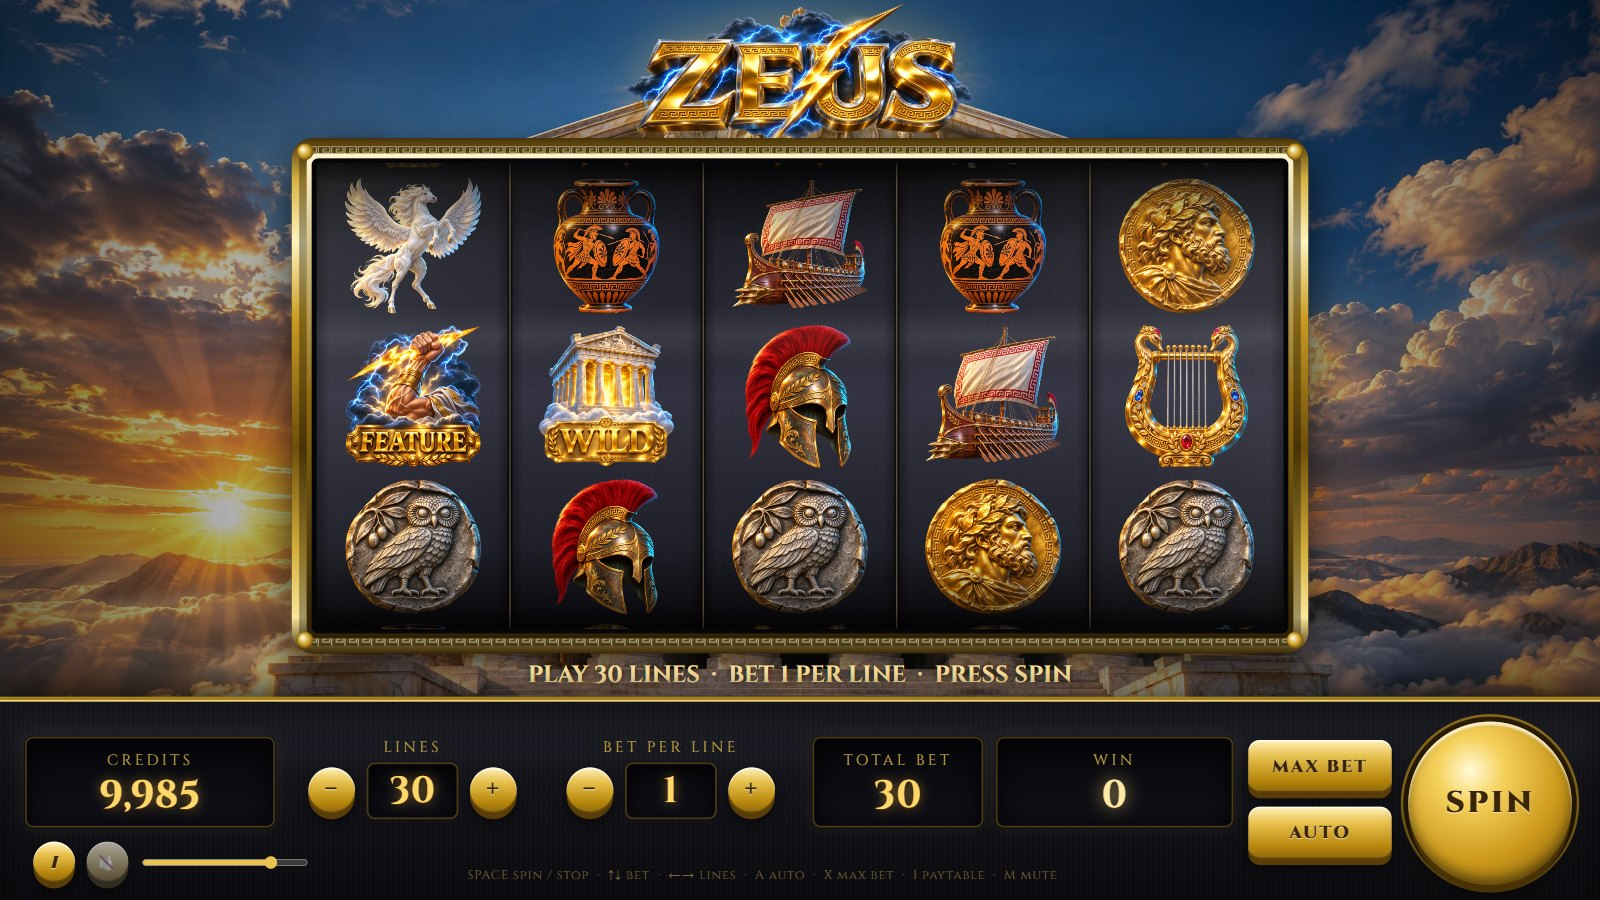
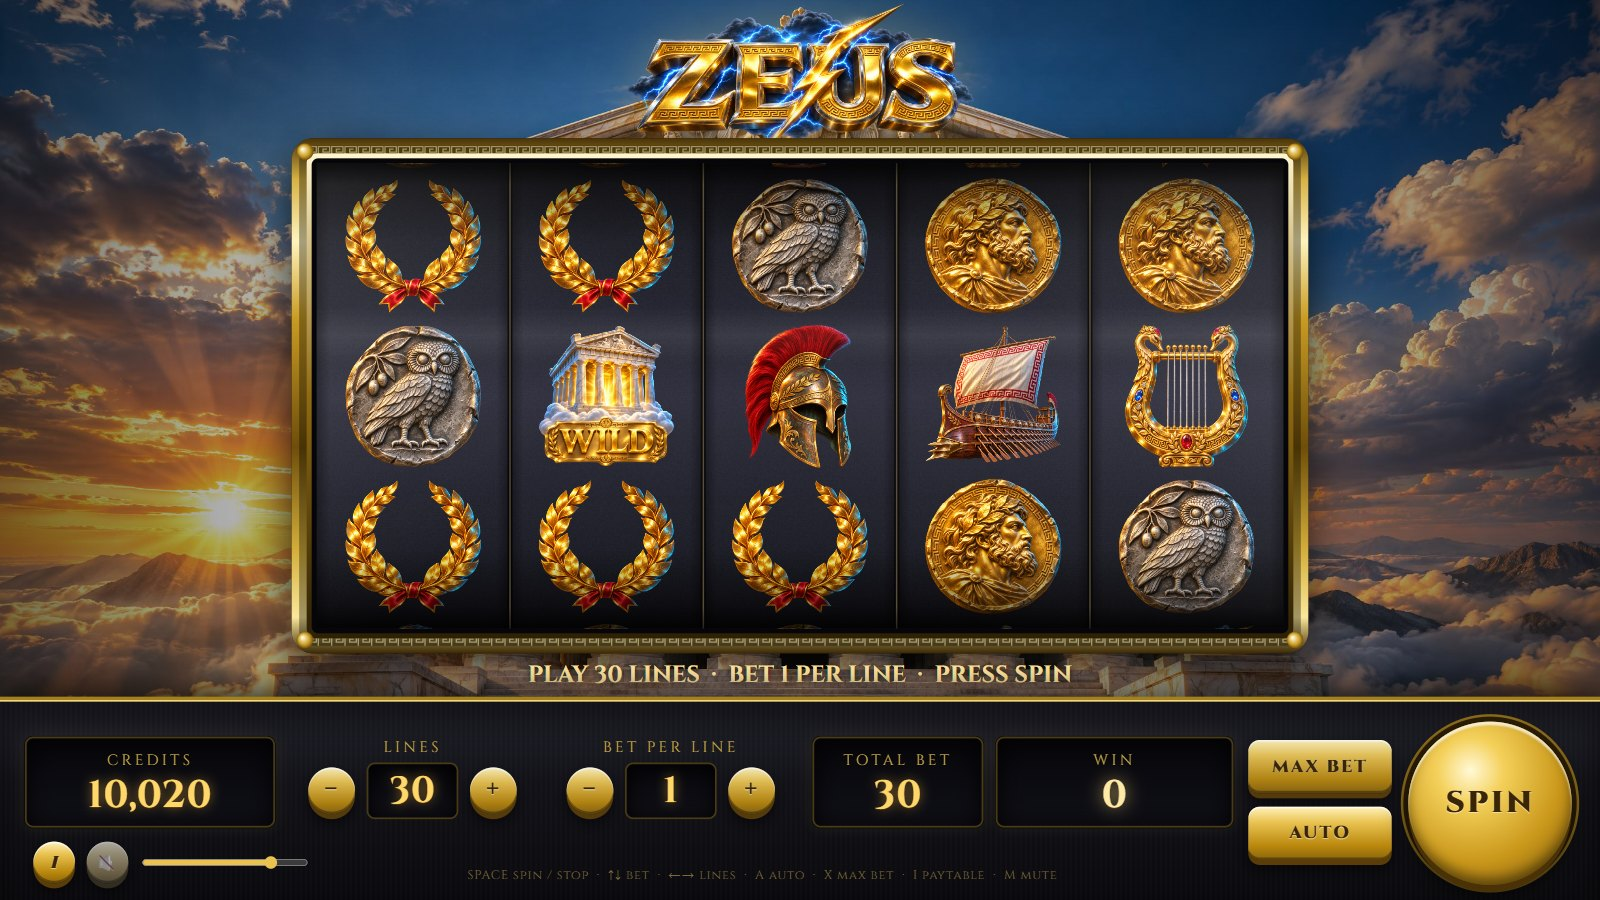
Arcade maths profile: the feature about 1 in 41 spins
The default arcade profile adds a FEATURE symbol on reel 3 and awards 5/10/40 free spins for a 95.68% return, against 1 in 101 with 10/25/100 at 95.96% before; ?classic=1 in the browser or ZEUS_PROFILE=classic for the tools restores the original. tools/tune-arcade.js documents the scan; README, docs page and screenshots updated.

Changed region(s): [[0.2188, 0.1867, 0.6875, 0.6844], [0.0312, 0.84, 0.1562, 0.9022]]

diff --git a/docs/index.html b/docs/index.html
@@ -6,7 +6,7 @@
 <meta name="viewport" content="width=device-width, initial-scale=1">
 <meta name="description" content="A photorealistic, physics-driven, fully sounded recreation of the classic Zeus slot machine in plain HTML5 Canvas and Web Audio.">
 <meta property="og:title" content="ZEUS — web slot machine recreation">
-<meta property="og:description" content="5 reels, 30 lines, 10/25/100 free spins, real reel physics and synthesized sound. Play in the browser.">
+<meta property="og:description" content="5 reels, 30 lines, 5/10/40 free spins, real reel physics and synthesized sound. Play in the browser.">
 <meta property="og:image" content="screenshots/hero.jpg">
 <link rel="preconnect" href="https://fonts.googleapis.com">
 <link href="https://fonts.googleapis.com/css2?family=Cinzel:wght@400;700;900&family=Inter:wght@400;600&display=swap" rel="stylesheet">
@@ -42,7 +42,7 @@
 <body>
 <header>
   <img class="logo" src="../assets/logo.png" alt="ZEUS">
-  <p class="tag">King of the gods &middot; 5 reels &middot; 30 lines &middot; 100 free spins</p>
+  <p class="tag">King of the gods &middot; 5 reels &middot; 30 lines &middot; free spins about every 41 spins</p>
   <a class="cta" href="../index.html">PLAY IN YOUR BROWSER</a>
   <img class="hero" src="screenshots/hero.jpg" alt="The Zeus reels with stacked Zeus, Wild temple and the golden bezel">
 </header>
@@ -50,14 +50,14 @@
   <h2>What it is</h2>
   <p>An unofficial, play-money recreation of the classic WMS <em>Zeus</em> slot machine, written in plain HTML5 Canvas,
     Web Audio and vanilla JavaScript. No frameworks, no build step, no server-side code &mdash; it runs from any static
-    web host or straight from disk. The reel strips reproduce the original paytable and return 95.96% in theory
-    (69.1% base game + 26.9% free spins), with the feature landing about once every 101 spins.</p>
+    web host or straight from disk. The reel strips reproduce the original paytable and return 95.68% in theory
+    (65.5% base game + 30.2% free spins), with the feature landing about once every 41 spins; add ?classic=1 to the address for the original 10/25/100 balance at 95.96%.</p>
 
   <h2>Features</h2>
   <div class="grid">
     <div class="card"><h3>Real reel physics</h3><p>Pull-back wind-up, acceleration, blurred full-speed spin, constant deceleration, an overshoot and a damped-spring bounce onto the stop. Slam the reels with the spin button.</p></div>
     <div class="card"><h3>Anticipation</h3><p>When two FEATURE symbols have landed the remaining reels spin on with a rising drone, heartbeat thumps and a crackling blue glow.</p></div>
-    <div class="card"><h3>Free spins</h3><p>3 / 4 / 5 FEATURE symbols award 10 / 25 / 100 free spins on a storm-lit second reel set with stacked Zeus and stacked Wilds. Retriggers add more.</p></div>
+    <div class="card"><h3>Free spins</h3><p>3 / 4 / 5 FEATURE symbols award 5 / 10 / 40 free spins (10 / 25 / 100 in the classic profile) on a storm-lit second reel set with stacked Zeus and stacked Wilds. Retriggers add more.</p></div>
     <div class="card"><h3>Photoreal presentation</h3><p>Cylindrical drum projection, speed-dependent motion blur, drum lighting and glass reflections, animated winning symbols, payline sweeps, procedural lightning and coin showers.</p></div>
     <div class="card"><h3>Fully synthesized sound</h3><p>Reel whir and ticks, mechanical stops, thunder, harp plucks, bells, brass fanfares, roll-up counters and two looping music beds &mdash; all generated live in Web Audio.</p></div>
     <div class="card"><h3>Verified mathematics</h3><p>An exact RTP calculator and a Monte-Carlo checker ship with the game, so the reel strips can be tuned and audited.</p></div>
@@ -69,7 +69,7 @@
     <figure><img src="screenshots/spin.jpg" alt="Reels spinning"><figcaption>Reels at full speed with motion blur.</figcaption></figure>
     <figure><img src="screenshots/win.jpg" alt="Line win"><figcaption>A line win: non-winning symbols dim, the payline glows and the win rolls up.</figcaption></figure>
     <figure><img src="screenshots/bigwin.jpg" alt="Epic win"><figcaption>A full screen of Zeus pays 500&times; the bet &mdash; EPIC WIN with lightning and coins.</figcaption></figure>
-    <figure><img src="screenshots/feature.jpg" alt="Feature triggered"><figcaption>Three FEATURE symbols trigger 10 free spins.</figcaption></figure>
+    <figure><img src="screenshots/feature.jpg" alt="Feature triggered"><figcaption>Three FEATURE symbols trigger 5 free spins.</figcaption></figure>
     <figure><img src="screenshots/freespins.jpg" alt="Free spins"><figcaption>Free spins under a thunderstorm with the feature meters.</figcaption></figure>
     <figure><img src="screenshots/summary.jpg" alt="Free spins complete"><figcaption>Free spins summary.</figcaption></figure>
     <figure><img src="screenshots/paytable.jpg" alt="Paytable"><figcaption>Pays and rules.</figcaption></figure>

diff --git a/js/config.js b/js/config.js
@@ -4,11 +4,22 @@
    Pays are in multiples of the LINE bet, matching the WMS Zeus paytable:
      Zeus 500/200/50/4, Pegasus 400/150/40, Boat 350/100/30, Helmet 350/100/30,
      Harp 250/100/20, Vase 250/100/20, Gold 200/75/15, Silver 200/75/15,
-     Wreath 150/50/5.  Feature: 3 = 10, 4 = 25, 5 = 100 free spins.
+     Wreath 150/50/5.  Feature: 3 / 4 / 5 scatters award free spins (see PROFILES).
    ========================================================================== */
 (function (root) {
   'use strict';
   const ZEUS = root.ZEUS || (root.ZEUS = {});
+
+  /* Two maths profiles share every pay and strip except the FEATURE symbol:
+       classic  the original balance: feature about 1 in 101 spins, 10 / 25 / 100 free spins, 95.96% return
+       arcade   (default) feature about 1 in 41 spins, 5 / 10 / 40 free spins, 95.68% return
+     Pick classic with ?classic=1 in the browser, or ZEUS_PROFILE=classic for the node tools. */
+  const PROFILES = {
+    classic: { featureCounts: [2, 1, 2, 1, 2], freeSpins: { 3: 10, 4: 25, 5: 100 }, rtp: '95.96', triggerEvery: 101 },
+    arcade: { featureCounts: [2, 2, 3, 2, 2], freeSpins: { 3: 5, 4: 10, 5: 40 }, rtp: '95.68', triggerEvery: 41 }
+  };
+  const wantClassic = (root.location && /[?&]classic=1(&|$)/.test(root.location.search)) || (typeof process !== 'undefined' && process.env && process.env.ZEUS_PROFILE === 'classic');
+  const PROFILE = wantClassic ? 'classic' : 'arcade', PROF = PROFILES[PROFILE];
 
   const SYMBOLS = [
     { id: 'ZEUS',    name: 'Zeus',          pays: { 5: 500, 4: 200, 3: 50, 2: 4 }, file: 'zeus' },
@@ -21,7 +32,7 @@
     { id: 'SILVER',  name: 'Silver Coin',   pays: { 5: 200, 4: 75,  3: 15 },       file: 'silver' },
     { id: 'WREATH',  name: 'Laurel Wreath', pays: { 5: 150, 4: 50,  3: 5 },        file: 'wreath' },
     { id: 'WILD',    name: 'Wild',          wild: true,                            file: 'wild' },
-    { id: 'FEATURE', name: 'Feature',       scatter: true, freeSpins: { 3: 10, 4: 25, 5: 100 }, file: 'feature' }
+    { id: 'FEATURE', name: 'Feature',       scatter: true, freeSpins: PROF.freeSpins,          file: 'feature' }
   ];
   const SYMBOL_BY_ID = {};
   SYMBOLS.forEach(s => { SYMBOL_BY_ID[s.id] = s; });
@@ -104,15 +115,10 @@
   }
 
   /* ---------- reel strip definitions (symbol counts per reel) ---------- */
-  /* Tuned with tools/tune2.js + tools/rtp-sim.js: exact RTP 95.96%
-     (base game 69.1% + free spins 26.9%), feature triggers about 1 in 101 spins. */
-  const BASE_COUNTS = [
-    { ZEUS: 3, PEGASUS: 3, BOAT: 3, HELMET: 3, HARP: 5, VASE: 5, GOLD: 6, SILVER: 6, WREATH: 8, WILD: 1, FEATURE: 2 },
-    { ZEUS: 3, PEGASUS: 3, BOAT: 3, HELMET: 3, HARP: 5, VASE: 5, GOLD: 6, SILVER: 6, WREATH: 8, WILD: 1, FEATURE: 1 },
-    { ZEUS: 3, PEGASUS: 3, BOAT: 3, HELMET: 3, HARP: 5, VASE: 5, GOLD: 6, SILVER: 6, WREATH: 8, WILD: 1, FEATURE: 2 },
-    { ZEUS: 3, PEGASUS: 3, BOAT: 3, HELMET: 3, HARP: 5, VASE: 5, GOLD: 6, SILVER: 6, WREATH: 8, WILD: 1, FEATURE: 1 },
-    { ZEUS: 3, PEGASUS: 3, BOAT: 3, HELMET: 3, HARP: 5, VASE: 5, GOLD: 6, SILVER: 6, WREATH: 8, WILD: 1, FEATURE: 2 }
-  ];
+  /* classic: tuned with tools/tune2.js + tools/rtp-sim.js to exactly 95.96% (base game 69.1% +
+     free spins 26.9%), feature about 1 in 101 spins.  arcade: tools/tune-arcade.js, 95.68%,
+     feature about 1 in 41 spins.  Only the FEATURE count per reel differs between the profiles. */
+  const BASE_COUNTS = PROF.featureCounts.map(f => ({ ZEUS: 3, PEGASUS: 3, BOAT: 3, HELMET: 3, HARP: 5, VASE: 5, GOLD: 6, SILVER: 6, WREATH: 8, WILD: 1, FEATURE: f }));
   const BASE_STACKS = { ZEUS: 3, WILD: 1 };
 
   const FREE_COUNTS = [
@@ -189,14 +195,14 @@
     rules: [
       'All wins pay left to right on adjacent reels beginning with the leftmost reel, except FEATURE.',
       'WILD is wild for all symbols except FEATURE.',
-      'FEATURE symbols pay in any position. 3 = 10 FREE SPINS, 4 = 25 FREE SPINS, 5 = 100 FREE SPINS.',
+      'FEATURE symbols pay in any position. 3 = ' + PROF.freeSpins[3] + ' FREE SPINS, 4 = ' + PROF.freeSpins[4] + ' FREE SPINS, 5 = ' + PROF.freeSpins[5] + ' FREE SPINS.',
       'Free spins are played at the lines and bet of the triggering game.',
       '3 or more FEATURE symbols during free spins award additional free spins.',
       'Only the highest win is paid per line. Line wins are multiplied by the line bet.',
       'Coinciding wins on different lines are added. Malfunction voids all pays and plays.'
     ]
   };
-  ZEUS.RTP = '95.96';
+  ZEUS.RTP = PROF.rtp; ZEUS.PROFILE = PROFILE; ZEUS.PROFILES = PROFILES;
   ZEUS.buildStrips = buildStrips;
   ZEUS.buildStrip = buildStrip;
   ZEUS.evalLine = evalLine;

diff --git a/tools/tune-arcade.js b/tools/tune-arcade.js
@@ -1,0 +1,26 @@
+/* Scan "arcade" settings: more frequent FEATURE triggers with smaller free-spin awards,
+   ranked by distance to a target RTP.  usage: node tools/tune-arcade.js [targetRtp=0.965] */
+'use strict';
+const ZEUS = require('../js/config.js');
+const L = require('./rtp-lib.js');
+const TARGET = parseFloat(process.argv[2] || '0.965');
+const FS = ZEUS.CONFIG.symbolById.FEATURE.freeSpins;
+function mk(spec) { return [0, 1, 2, 3, 4].map(i => { const o = {}; Object.keys(spec).forEach(k => { const v = spec[k]; o[k] = Array.isArray(v) ? v[i] : v; }); return o; }); }
+const BASE = { ZEUS: 3, PEGASUS: 3, BOAT: 3, HELMET: 3, HARP: 5, VASE: 5, GOLD: 6, SILVER: 6, WREATH: 8, WILD: 1 };
+const FREE = { ZEUS: 6, PEGASUS: 4, BOAT: 4, HELMET: 4, HARP: 5, VASE: 5, GOLD: 5, SILVER: 5, WREATH: 6, WILD: [3, 4, 4, 4, 3] };
+const FEAT = { classic: [2, 1, 2, 1, 2], a: [2, 2, 2, 2, 2], b: [3, 2, 3, 2, 3], c: [3, 2, 2, 2, 3], d: [3, 3, 3, 3, 3], e: [3, 3, 2, 3, 3] };
+const AWARDS = { classic: [10, 25, 100], a: [8, 15, 50], b: [7, 12, 40], c: [6, 10, 30], d: [5, 8, 25], e: [8, 12, 30], f: [6, 12, 50], g: [5, 10, 40] };
+const saved = [FS[3], FS[4], FS[5]];
+const rows = [];
+for (const fk of Object.keys(FEAT)) for (const ak of Object.keys(AWARDS)) for (const ff of [2, 1]) {
+  const base = mk(Object.assign({}, BASE, { FEATURE: FEAT[fk] }));
+  const free = mk(Object.assign({}, FREE, { FEATURE: ff }));
+  const aw = AWARDS[ak]; FS[3] = aw[0]; FS[4] = aw[1]; FS[5] = aw[2];
+  const r = L.analyze(base, free);
+  rows.push({ name: 'feature ' + FEAT[fk].join('') + '  awards ' + aw.join('/') + '  free-strip FEATURE ' + ff, r });
+}
+FS[3] = saved[0]; FS[4] = saved[1]; FS[5] = saved[2];
+const near = rows.filter(x => x.r.trigEvery >= 30 && x.r.trigEvery <= 60);
+near.sort((a, b) => Math.abs(a.r.rtp - TARGET) - Math.abs(b.r.rtp - TARGET));
+near.slice(0, 24).forEach(({ name, r }) => console.log(name.padEnd(56), 'trig 1/' + r.trigEvery.toFixed(0), 'base', (r.rtpBase * 100).toFixed(1), 'FS', (r.rtpFS * 100).toFixed(1), 'RTP', (r.rtp * 100).toFixed(2), 'spins/trigger', (r.expFS / r.pTrig).toFixed(1)));
+console.log(near.length + ' candidates between 1/30 and 1/60 of ' + rows.length);

diff --git a/README.md b/README.md
@@ -7,7 +7,7 @@
 ![HTML5 Canvas](https://img.shields.io/badge/HTML5-Canvas-e34f26)
 ![Web Audio](https://img.shields.io/badge/Web%20Audio-synthesized-7b61ff)
 ![Dependencies](https://img.shields.io/badge/dependencies-none-success)
-![RTP](https://img.shields.io/badge/theoretical%20RTP-95.96%25-d4af37)
+![RTP](https://img.shields.io/badge/theoretical%20RTP-95.68%25-d4af37)
 ![Play money](https://img.shields.io/badge/play%20money-only-blue)
 
 <img src="docs/screenshots/hero.jpg" alt="Zeus reels with stacked Zeus, the Wild temple and the gold bezel" width="900">
@@ -16,10 +16,11 @@
 
 Plain HTML5 Canvas, Web Audio and vanilla JavaScript. No frameworks, no build
 step, no server-side code: it runs from any static host or straight from disk.
-The reel strips reproduce the original paytable and return **95.96 %** in theory
-(69.1 % base game + 26.9 % free spins); the feature lands about once every 101
-spins. Everything you hear is synthesized live, and every piece of art was
-generated for this project.
+The reel strips reproduce the original paytable. The default *arcade* profile deals the
+feature about once every 41 spins for 5 / 10 / 40 free spins and returns **95.68 %** in theory
+(65.5 % base game + 30.2 % free spins); `?classic=1` restores the original balance of
+10 / 25 / 100 free spins about once every 101 spins at 95.96 %. Everything you hear is
+synthesized live, and every piece of art was generated for this project.
 
 > Unofficial fan recreation for entertainment only. Zeus is a trademark of its
 > owner. Play money, no real wagering.
@@ -50,7 +51,8 @@ generated for this project.
   Vase 250 / 100 / 20 · Gold Coin 200 / 75 / 15 · Silver Coin 200 / 75 / 15 ·
   Laurel Wreath 150 / 50 / 5
 * Temple **WILD** substitutes for every symbol except **FEATURE**
-* 3 / 4 / 5 **FEATURE** symbols anywhere award 10 / 25 / 100 free spins on a second,
+* 3 / 4 / 5 **FEATURE** symbols anywhere award 5 / 10 / 40 free spins (10 / 25 / 100 in the
+  classic profile) on a second,
   storm-lit reel set with stacked Zeus and stacked Wilds; free spins retrigger
 * Stacked Zeus on every reel: a full screen of Zeus pays 500 × the total bet
 * Big / Mega / Epic win celebrations at 15× / 50× / 100× the bet
@@ -129,9 +131,10 @@ All tuning lives in plain JavaScript constants — edit, save, reload.
 | `lineOptions` | `js/config.js` | `1, 5, 10, 15, 20, 25, 30` | Selectable payline counts |
 | `betOptions` | `js/config.js` | `1, 2, 3, 5, 10, 20` | Bet per line steps |
 | `SYMBOLS[].pays` | `js/config.js` | original Zeus pays | Line pays per symbol for 2–5 of a kind |
-| `FEATURE.freeSpins` | `js/config.js` | `3: 10, 4: 25, 5: 100` | Free spins per scatter count |
+| `PROFILES` | `js/config.js` | `arcade`; `?classic=1` switches | Feature balance: arcade lands it 1 in 41 for 5 / 10 / 40 spins, classic 1 in 101 for 10 / 25 / 100 |
+| `FEATURE.freeSpins` | `js/config.js` | `3: 5, 4: 10, 5: 40` (classic `10, 25, 100`) | Free spins per scatter count |
 | `PAYLINES` | `js/config.js` | 30 patterns | Row index per reel (0 top, 1 middle, 2 bottom) |
-| `BASE_COUNTS` / `FREE_COUNTS` | `js/config.js` | tuned to 95.96 % | Symbols per reel strip; `*_STACKS` sets stack heights |
+| `BASE_COUNTS` / `FREE_COUNTS` | `js/config.js` | tuned to 95.68 % (classic 95.96 %) | Symbols per reel strip; `*_STACKS` sets stack heights |
 | `vmax`, `accelTime` | `js/reel.js` | `27`, `0.45` | Spin speed (symbols/s) and acceleration time (s) |
 | `overshoot`, `omega`, `zeta` | `js/reel.js` | `0.26`, `22`, `0.42` | Stop bounce: overshoot (symbols), spring frequency, damping |
 | `first`, `gap` (in `spin()`) | `js/game.js` | `1.1`, `0.33` | Seconds until the first reel stops, spacing between reel stops |
@@ -276,6 +279,7 @@ zeus-slot/
     ├── rtp-sim.js        exact RTP from the strips + Monte-Carlo check
     ├── rtp-lib.js        shared RTP maths
     ├── tune.js, tune2.js strip-count scans used to hit the target RTP
+    ├── tune-arcade.js    feature-frequency and award scans behind the arcade profile
     ├── screenshots.mjs   headless-Chrome screenshot generator (no dependencies)
     └── pngalpha.py       alpha-channel report for PNG assets
 ```
@@ -291,8 +295,8 @@ zeus-slot/
 
 | Parameter | Outcome |
 | --- | --- |
-| `?force=feature` | three FEATURE symbols (10 free spins) |
-| `?force=feature5` | five FEATURE symbols (100 free spins) |
+| `?force=feature` | three FEATURE symbols (5 free spins; 10 in the classic profile) |
+| `?force=feature5` | five FEATURE symbols (40 free spins; 100 in the classic profile) |
 | `?force=zeus` | full screen of Zeus — EPIC WIN, 500 × bet |
 | `?force=bigwin` | four Pegasus on the middle line |
 | `?force=wild` | Wilds on reels 2–4 |
